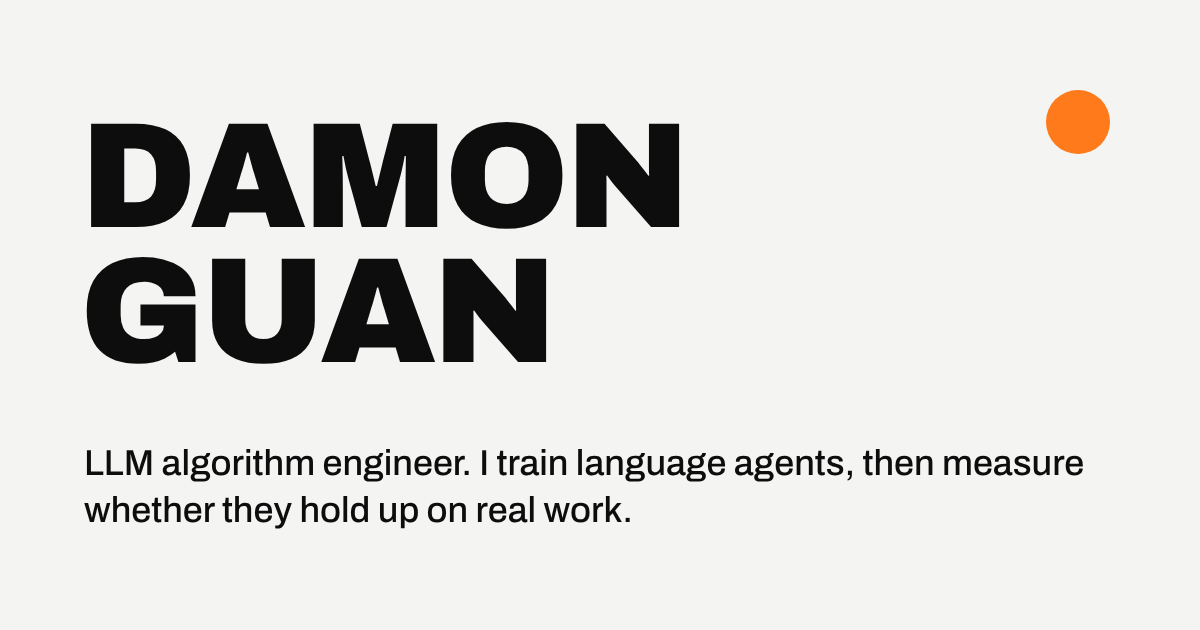
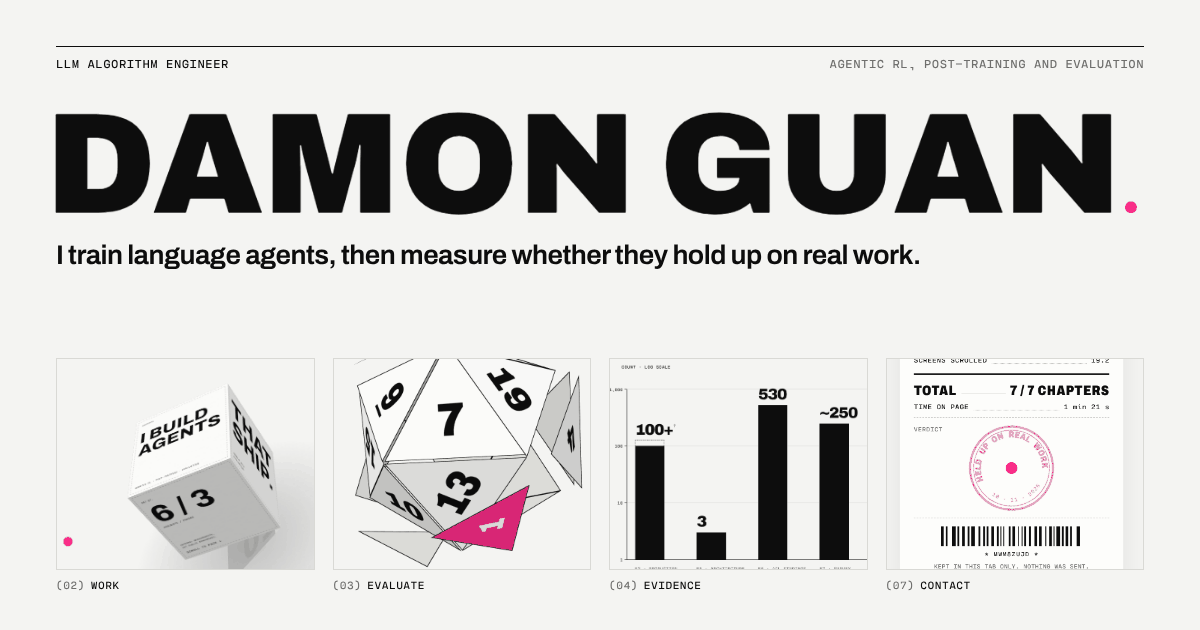
feat(meta): an OG image composed from the assembled site
public/og.png (1200x630, 48 KiB) is composed from screenshots of the run
itself: the hero wordmark with its magenta stop, the claim, and four
chapter frames (the carton, the d20's failing face, the Evidence chart,
the stamped receipt). The description now says what the page is, with no
new facts; og:image:alt added. /lab, /short and the 404 set their own
titles in the visitor's language, so App drops theirs; with that the
entry chunk is 1 byte smaller than before the pages around the run.

Claude-Session: https://claude.ai/code/session_01UouyL7YzeRJBzwTPWqp3BB

diff --git a/src/App.jsx b/src/App.jsx
@@ -3,16 +3,16 @@ import { LangProvider } from './i18n.jsx';
 import { work } from './content.js';
 
 const Home = lazy(() => import('./pages/Home.jsx'));
-// /lab is its own chunk: the home page's first paint does not carry the studies' index
-const Chooser = lazy(() => import('./pages/Chooser.jsx'));
 const Note = lazy(() => import('./pages/Note.jsx'));
 const NotFound = lazy(() => import('./pages/NotFound.jsx'));
 
-// path → [component, document title]. A null title keeps the one from index.html.
+// path → [component, document title]. No title keeps the one from index.html, or lets the page set its
+// own (/lab, /short and the 404 do, in the visitor's language). /lab is its own chunk: the home page's
+// first paint does not carry the studies' index.
 const routes = {
   '/': [Home, null],
-  '/lab': [Chooser, 'The studies'],
-  '/short': [lazy(() => import('./pages/Short.jsx')), 'The short version'],
+  '/lab': [lazy(() => import('./pages/Chooser.jsx'))],
+  '/short': [lazy(() => import('./pages/Short.jsx'))],
   '/parcel': [lazy(() => import('./directions/parcel/Opening.jsx')), 'Parcel Box'],
   '/descent': [lazy(() => import('./directions/descent/Opening.jsx')), 'Descent'],
   '/ink': [lazy(() => import('./directions/ink/Opening.jsx')), 'Wet Ink'],
@@ -31,9 +31,9 @@ export default function App() {
   const isNote = path.startsWith('/notes/');
   // /work/<slug>: the home page with that parcel's case study open over the Work chapter
   const parcel = path.startsWith('/work/') && work.find((item) => path === `/work/${item.id}`);
-  // notes set their own title (note title, or their own not-found state)
+  // notes set their own title (the note's, or the 404's)
   const [Page, title] =
-    routes[path] || (parcel ? [Home, parcel.title] : isNote ? [Note, undefined] : [NotFound, 'Not found']);
+    routes[path] || (parcel ? [Home, parcel.title] : isNote ? [Note, undefined] : [NotFound]);
   useEffect(() => {
     if (title) document.title = `${title} — Damon Guan`;
   }, [title]);

diff --git a/index.html b/index.html
@@ -7,7 +7,7 @@
     <title>Damon Guan — LLM algorithm engineer</title>
     <meta
       name="description"
-      content="Damon Guan — LLM algorithm engineer. I train language agents, then measure whether they hold up on real work."
+      content="Damon Guan, LLM algorithm engineer: agentic RL, post-training and evaluation. One page in eight chapters: six shipped projects, a twenty-roll reliability test, the figures behind the work, notes, and a receipt of your visit."
     />
     <meta name="theme-color" content="#f4f4f2" />
     <meta property="og:type" content="website" />
@@ -20,6 +20,10 @@
     <meta property="og:image" content="/og.png" />
     <meta property="og:image:width" content="1200" />
     <meta property="og:image:height" content="630" />
+    <meta
+      property="og:image:alt"
+      content="The DAMON GUAN wordmark with a magenta full stop, above four frames from the site: a carton, a d20, a chart and a stamped receipt."
+    />
     <meta name="twitter:card" content="summary_large_image" />
     <meta name="twitter:title" content="Damon Guan — LLM algorithm engineer" />
     <meta
